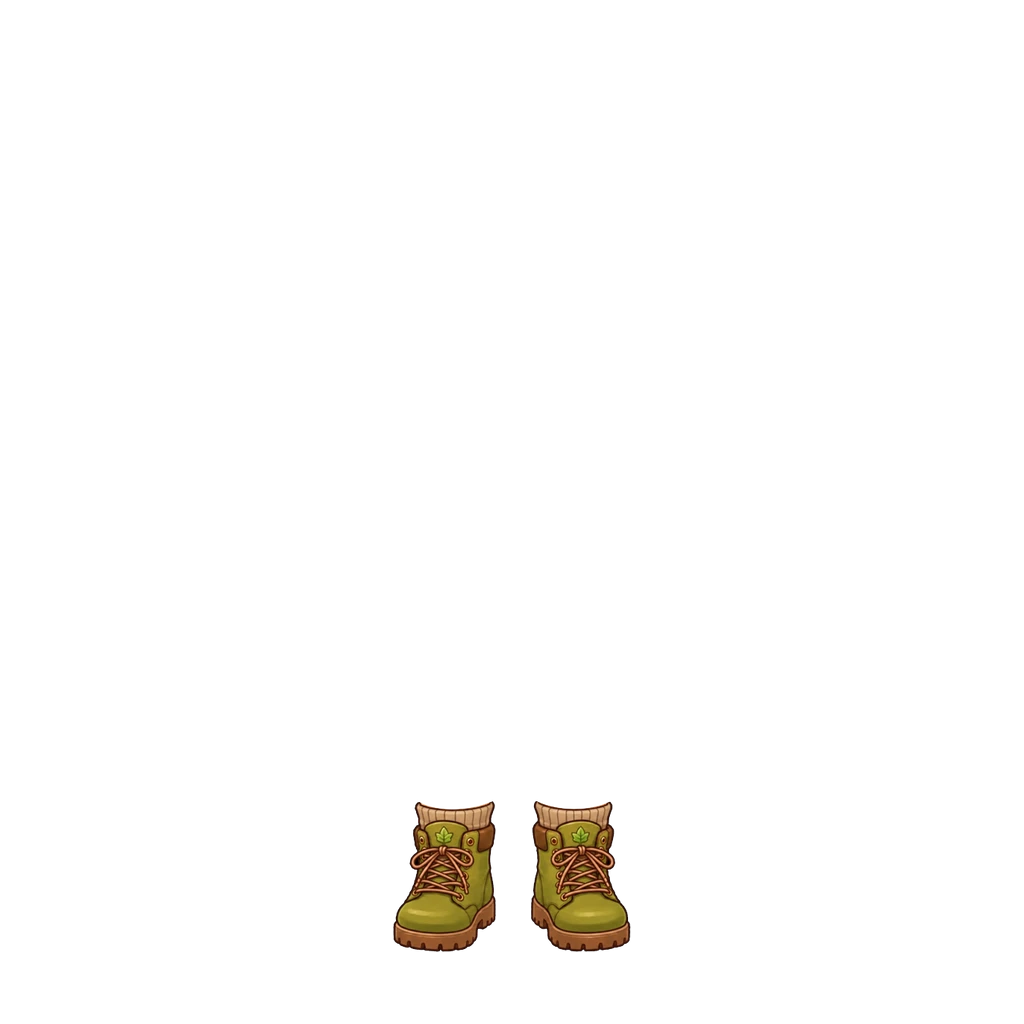
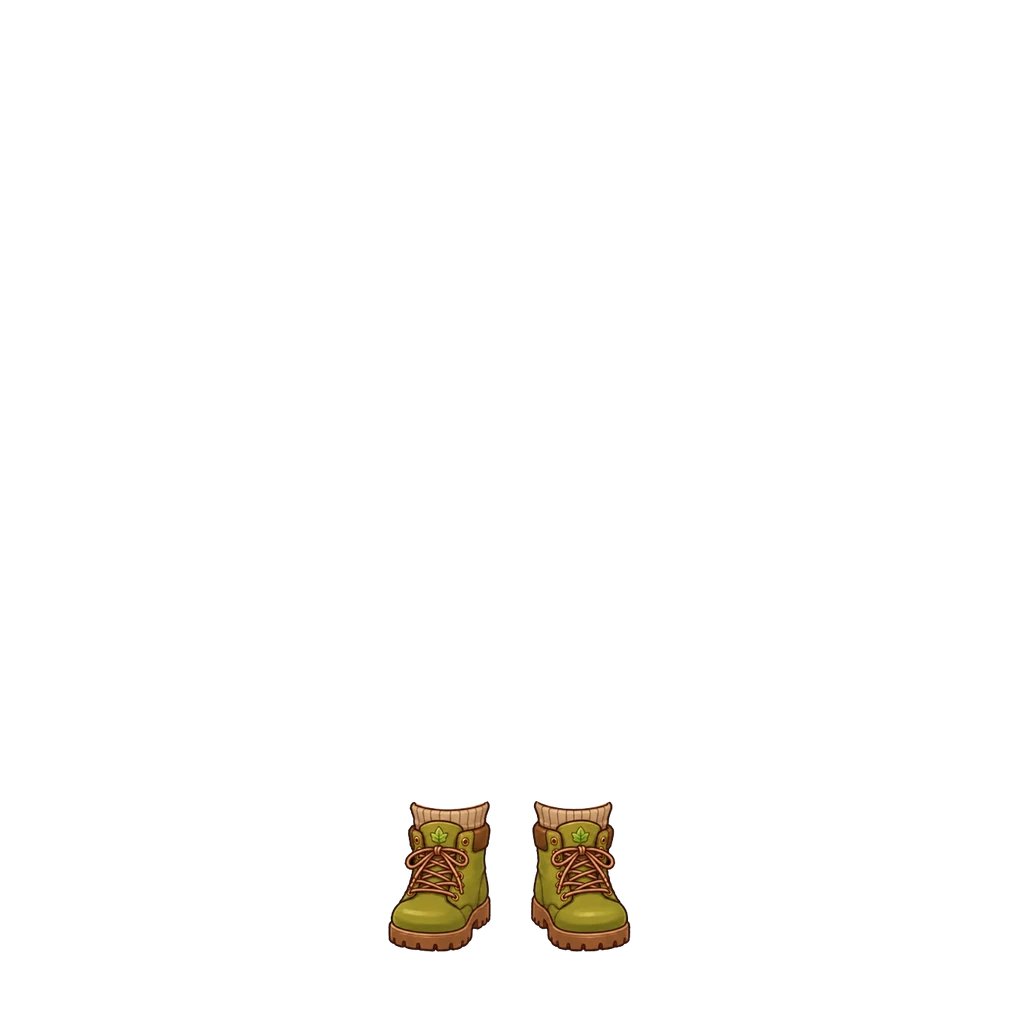
도토리 부츠(남아): 화면 왼쪽 짝만 왼쪽으로 5 (#843)
Claude-Session: https://claude.ai/code/session_018maNuYqDfFyRSe9uKpZhPR

Changed region(s): [[0.375, 0.7812, 0.5, 0.9375]]

diff --git a/src/data/avatarEquipment.js b/src/data/avatarEquipment.js
@@ -404,8 +404,9 @@ export const AVATAR_CATALOG = [
      두 짝을 따로 잘라 원화 양말 가운데(왼짝 x82 · 오른짝 x56)를 남아 다리 가운데(x450.5 · x574.5)에, 배율 0.72, 왼짝 +4·오른짝 −2,
      밑창 아래끝 y952(발 안쪽이 밑창 아래로 비치지 않게). 맨발 2px. 탑재 상자 (395,805,628,952).
      [2026-10-03] 사용자 조정 — 이름 정글 부츠 → 도토리 부츠, 두 짝 2% 크게(배율 0.7344, 밑창·양말 가운데 고정). 탑재 상자 (394,802,629,952). img ?v=2.
-     [2026-10-03] 두 짝 2% 더 크게(배율 0.7491). 탑재 상자 (393,799,631,952). img ?v=3. */
-  { id: "shoes_jungle_leaf", slot: "shoes", label: "도토리 부츠",   emoji: "🥾", price:DECOR_PRICE.common, rarity: "common", theme: "adventure", forGender: "boy", img: "assets/avatar/shoes/jungle-boots-leaf-boy.webp?v=3", thumb: "assets/avatar/thumb/shoes_jungle_leaf.webp" },
+     [2026-10-03] 두 짝 2% 더 크게(배율 0.7491). 탑재 상자 (393,799,631,952). img ?v=3.
+     [2026-10-03] 화면 왼쪽 짝만 왼쪽으로 5(+4 → −1). 탑재 상자 (388,799,631,952). img ?v=4. */
+  { id: "shoes_jungle_leaf", slot: "shoes", label: "도토리 부츠",   emoji: "🥾", price:DECOR_PRICE.common, rarity: "common", theme: "adventure", forGender: "boy", img: "assets/avatar/shoes/jungle-boots-leaf-boy.webp?v=4", thumb: "assets/avatar/thumb/shoes_jungle_leaf.webp" },
   /* 들꽃 신발 [2026-10-02] — 여아 신발 첫 아이템. 올리브 끈 부츠 두 짝(흰 양말 목, 주황 끈·밑창) 사용자 원화 264×191.
      두 짝을 따로 잘라 각각 다리 위에 얹었다 — 원화 발목 가운데(왼짝 x61 · 오른짝 x51.5)를 여아 다리 가운데(x455 · x556)에,
      밑창 아래끝을 y942(발바닥 y940 바로 아래)에 맞췄다. 배율 0.64 — 발등·발가락이 다 가려지고(맨발 0px) 부츠 목이 종아리 아래(y820)에서 끝난다.

diff --git a/art-src/README.md b/art-src/README.md
@@ -591,4 +591,4 @@ bbox로 여백만 잘라내고 배포본은 높이 480px로 축소했다(전부 
 | thumb-src-shoes_strawberry.webp | **상점 목록 그림 여아 딸기 구두 (shoes_strawberry, 사용자 원화 2026-10-03)** — 입히는 신발이 아니라 상점 카드에만 보이는 그림(한 짝 옆모습). 268×280 투명 배경, 세로 160px 로 줄여 탑재(thumb ?v=2) | avatar/thumb/shoes_strawberry.webp |
 | jungle-boots-boy-src.webp | **정글 부츠 원화 남아 (사용자 원화 2026-10-03)** — 369×235 투명 배경, 카키 하이탑 + 회색 양말, 불 들어오는 밑창 두 짝. 두 짝(x1~161 · x213~367)을 따로 잘라 배율 0.68, 양말 가운데를 남아 다리 가운데(x450.5·x574.5)에 두고 왼짝 +3, 밑창 아래끝 y956(안쪽으로 올라간 밑창 아래로 발가락이 비치지 않게). 맨발 0px. 탑재 상자 (385,796,637,956). **[2026-10-03 조정]** 화면 왼쪽 짝만 1% 크게·왼쪽으로 2, 상자 (382,795,637,956) · img ?v=2. 화면 왼쪽 짝만 1% 더 크게(0.6937), 상자 (382,793,637,956) · img ?v=3. 상점 그림은 원화를 세로 160px 로 | avatar/shoes/jungle-boots-boy.webp · thumb/shoes_jungle.webp |
 | pirate-boots-kid-boy-src.webp | **꼬마해적 신발 원화 남아 (사용자 원화 2026-10-03)** — [2026-10-03] 한 번 뺐다가 같은 날 되살림. — 340×177 투명 배경, 갈색 버클 부츠(접힌 목) 두 짝. 짝마다 위아래를 딱 맞게 잘라(왼 x0~138·y12~175, 오른 x207~339·y3~167) 배율 0.72, 부츠목 가운데를 남아 다리 가운데(x450.5·x574.5)에 두고 왼짝 +4·오른짝 −3, 밑창 아래끝 y955. 맨발 9px. 탑재 상자 (394,836,628,955). **[2026-10-03 조정]** 두 짝 1% 크게(0.7272)·왼짝 왼쪽 1·오른짝 오른쪽 1, 상자 (392,835,630,955) · img ?v=2. 왼짝만 왼쪽 1 더, 상자 (391,835,630,955) · img ?v=3. 왼짝만 왼쪽 1 더, 상자 (390,835,630,955) · img ?v=4. 상점 그림은 원화를 세로 160px 로 | avatar/shoes/pirate-boots-kid-boy.webp · thumb/shoes_pirate_kid.webp |
-| jungle-boots-leaf-boy-src.webp | **정글 부츠 원화 남아 (사용자 원화 2026-10-03)** — 339×204 투명 배경, 초록 끈 부츠(나뭇잎 무늬) + 니트 양말 두 짝(shoes_jungle_leaf; 처음 정글 부츠였던 shoes_jungle 은 라이트 부츠로 이름만 바뀜). 두 짝(x0~137 · x206~337)을 따로 잘라 배율 0.72, 양말 가운데를 남아 다리 가운데(x450.5·x574.5)에 두고 왼짝 +4·오른짝 −2, 밑창 아래끝 y952. 맨발 2px. 탑재 상자 (395,805,628,952). **[2026-10-03 조정]** 이름 도토리 부츠로, 두 짝 2% 크게(0.7344), 상자 (394,802,629,952) · img ?v=2. 다시 2% 더 크게(0.7491), 상자 (393,799,631,952) · img ?v=3. 상점 그림은 원화를 세로 160px 로 | avatar/shoes/jungle-boots-leaf-boy.webp · thumb/shoes_jungle_leaf.webp |
+| jungle-boots-leaf-boy-src.webp | **정글 부츠 원화 남아 (사용자 원화 2026-10-03)** — 339×204 투명 배경, 초록 끈 부츠(나뭇잎 무늬) + 니트 양말 두 짝(shoes_jungle_leaf; 처음 정글 부츠였던 shoes_jungle 은 라이트 부츠로 이름만 바뀜). 두 짝(x0~137 · x206~337)을 따로 잘라 배율 0.72, 양말 가운데를 남아 다리 가운데(x450.5·x574.5)에 두고 왼짝 +4·오른짝 −2, 밑창 아래끝 y952. 맨발 2px. 탑재 상자 (395,805,628,952). **[2026-10-03 조정]** 이름 도토리 부츠로, 두 짝 2% 크게(0.7344), 상자 (394,802,629,952) · img ?v=2. 다시 2% 더 크게(0.7491), 상자 (393,799,631,952) · img ?v=3. 화면 왼쪽 짝만 왼쪽으로 5, 상자 (388,799,631,952) · img ?v=4. 상점 그림은 원화를 세로 160px 로 | avatar/shoes/jungle-boots-leaf-boy.webp · thumb/shoes_jungle_leaf.webp |
